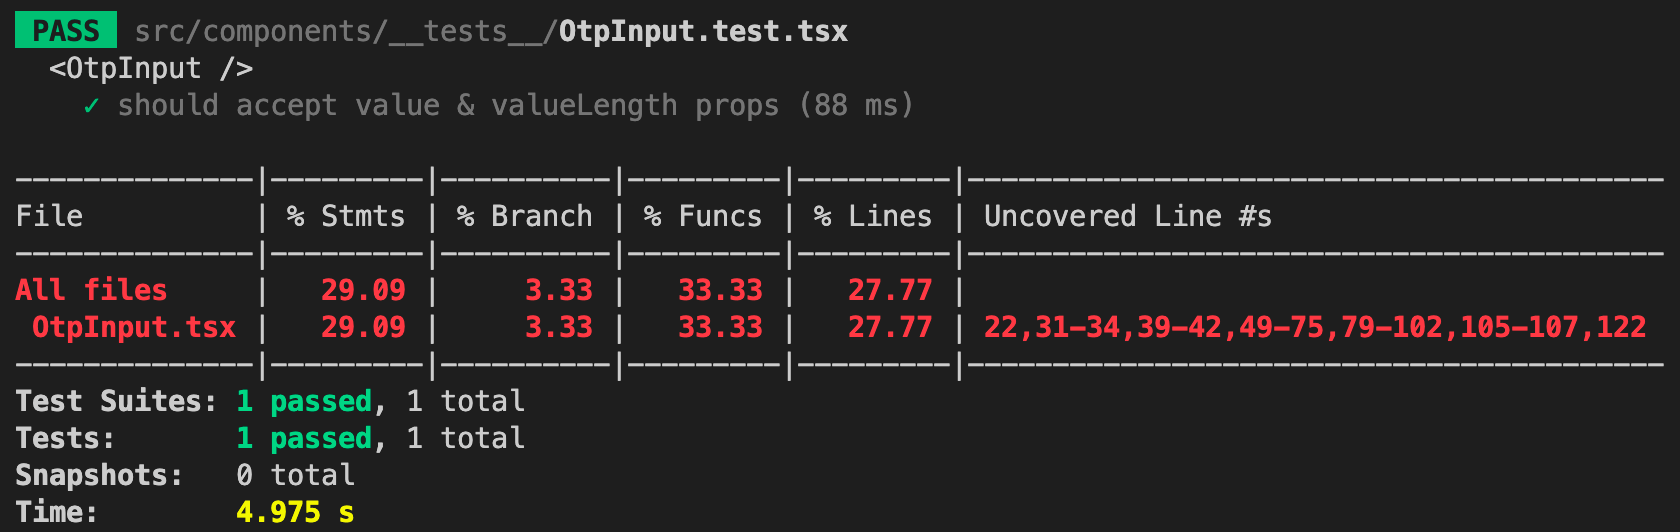
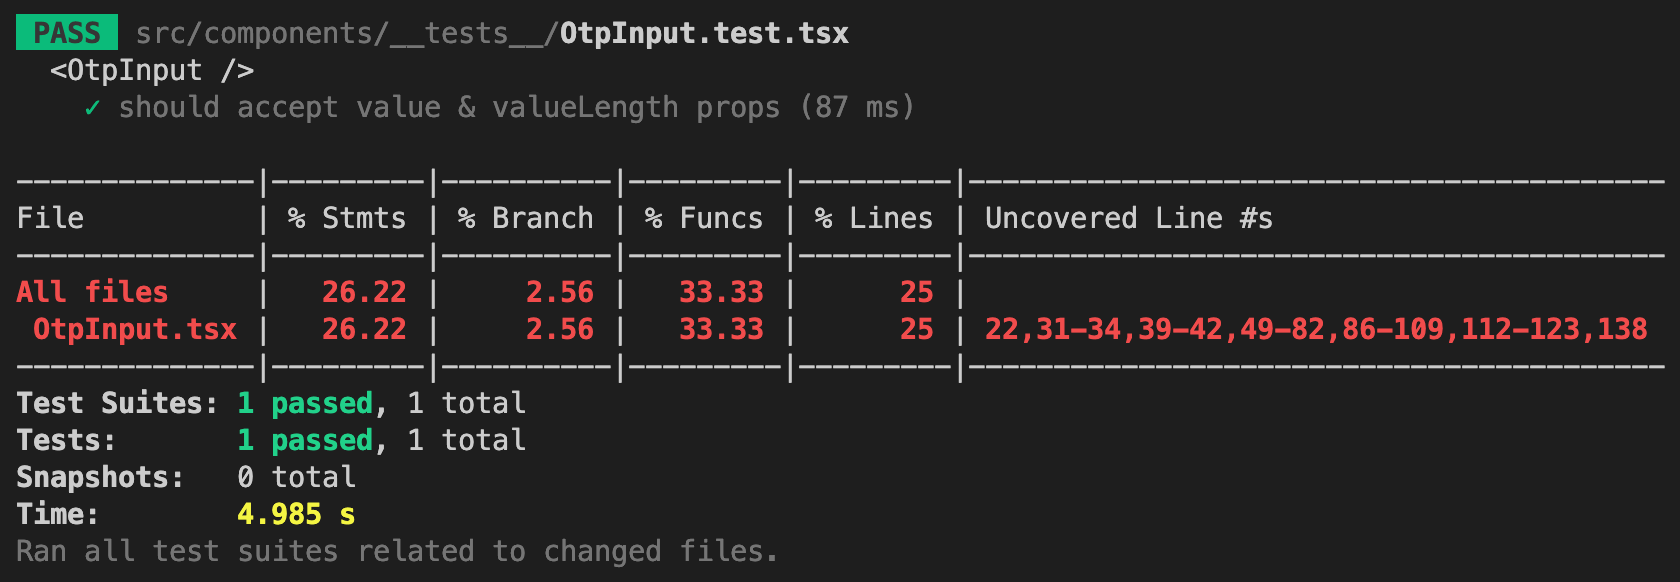
update post

Changed region(s): [[0.0, 0.3008, 0.9905, 0.9925], [0.0, 0.0, 0.5571, 0.2406]]

diff --git a/lib/constants.ts b/lib/constants.ts
@@ -470,7 +470,7 @@ export const TESTIMONIALS: Array<Testimonial> = [
     jobTitle: 'Senior Product Manager',
     companyName: 'PropertyGuru Pte. Ltd.',
     quote:
-      "Having worked with many teams of engineers, very rarely do I encounter engineers like Dom who demonstrate the perfect blend of skills, creativity, and initiative. I'm extremely fortunate to have such engineer on the team. It has not only made my job easier, but we've also ended up with better end products – seamless collaboration, great exchange of ideas, quick and precise execution.",
+      "Having worked with many teams of engineers, very rarely do I encounter engineers like Dom who demonstrate the perfect blend of skills, creativity, and initiative. I'm extremely fortunate to have such engineer on the team. It has not only made my job easier, but we've also ended up with better end products - seamless collaboration, great exchange of ideas, quick and precise execution.",
   },
   {
     name: 'Rangana Chandrasena',

diff --git a/posts/how-to-create-your-own-otp-input-in-react-and-typescript-with-tests-part-2.md b/posts/how-to-create-your-own-otp-input-in-react-and-typescript-with-tests-part-2.md
@@ -360,7 +360,7 @@ Awesome, it still `PASS` and the uncovered lines are getting lesser. Let's keep 
 
 ## Write tests to allow deleting of digits (do not focus on previous element)
 
-So this test case is kind of a duplicate of the above with minor changes to cover line `99` of `OtpInput.tsx`. When the deletion happens but the input element wasn't previously empty, we should not focus on the previous element. Here's the test case for that:
+So this test case is kind of a duplicate of the above with minor changes to cover line `106` of `OtpInput.tsx`. When the deletion happens but the input element wasn't previously empty, we should not focus on the previous element. Here's the test case for that:
 
 ```tsx
 ...
@@ -405,9 +405,53 @@ describe('<OtpInput />', () => {
 
 Since our previous test case already checks the `onChange` logic during deletion, here we just have to check that the previous element was not in focus when we trigger a keydown event with a key of `Backspace` and the `target` during the event had a `value`.
 
-Alright, once you save the changes, and check the terminal, line `99` is removed from the uncovered lines. Sweet!
+Alright, once you save the changes, and check the terminal, line `106` is removed from the uncovered lines. Sweet!
 
 ---
+
+## Write tests to not allow deleting of digits in the middle
+
+This is a test case for a fix we did on Oct. 17, 2022 related to the deleting of digits in the middle after implementing the fix for the focus issue. This test case should be pretty straightforward using what we've learned so far. Let's generate a random 6-digit value, then use that to fill in the OTP input component. Focus on any of the input elements in the middle, let's choose with the third input element. Then, trigger a change event on that element where the event target value is empty which means the digit is deleted. We can verify that it didn't allow deletion of digits by checking if the `onChange` function was not called.
+
+Here's the code for that test case:
+
+```tsx
+...
+
+describe('<OtpInput />', () => {
+  ...
+
+  it('should NOT allow deleting of digits in the middle', () => {
+    const value = faker.datatype
+      .number({ min: 100000, max: 999999 })
+      .toString();
+    const valueLength = value.length;
+    const onChange = jest.fn();
+
+    renderComponent({
+      value,
+      valueLength,
+      onChange,
+    });
+
+    const inputEls = screen.queryAllByRole('textbox');
+    const thirdInputEl = inputEls[2];
+    const target = { value: '' };
+
+    fireEvent.change(thirdInputEl, { target: { value: '' } });
+    fireEvent.keyDown(thirdInputEl, {
+      target,
+      key: 'Backspace',
+    });
+
+    expect(onChange).not.toBeCalled();
+  });
+});
+```
+
+Once you saved the changes, this should pass and cover line `61`!
+
+![Screenshot of React OTP Input incomplete test coverage](/images/posts/how-to-create-your-own-otp-input-in-react-and-typescript-with-tests/test-coverage-incomplete-5.png)
 
 ## Write tests to allow pasting of digits
 
@@ -454,9 +498,9 @@ Okay if my changes are relatively the same as yours, then give yourself pat in t
 
 The test coverage should look like this now:
 
-![Screenshot of React OTP Input incomplete test coverage](/images/posts/how-to-create-your-own-otp-input-in-react-and-typescript-with-tests/test-coverage-incomplete-5.png)
+![Screenshot of React OTP Input incomplete test coverage](/images/posts/how-to-create-your-own-otp-input-in-react-and-typescript-with-tests/test-coverage-incomplete-6.png)
 
-Since we're doing an `if` and `else if` conditions in the `inputOnChange` function in the `OtpInput.tsx`, line `72` will eventually be considered as uncovered lines because the `else` condition is not handled in our test cases yet. It may not show up now until you add the rest of the other test cases. So before that happens, let's just cover that now with the following code:
+Since we're doing an `if` and `else if` conditions in the `inputOnChange` function in the `OtpInput.tsx`, line `79` will eventually be considered as uncovered lines because the `else` condition is not handled in our test cases yet. It may not show up now until you add the rest of the other test cases. So before that happens, let's just cover that now with the following code:
 
 ```tsx
 import { fireEvent, render, screen } from '@testing-library/react';
@@ -494,7 +538,7 @@ Once you save the changes, this test case should pass as well.
 
 ## Write tests for handling arrow keys
 
-And for our last test case, we should cover the keydown events with arrow keys. This was implemented to improve the accessibility of our input boxes. Just a recap, if we press the right or down arrow keys on the keyboard, the focus should be on the next input element. And if we press the left or up arrow keys on the keyboard, the focus should be on the previous input element. These are all handled by the keydown event handler.
+And for our next test case, we should cover the keydown events with arrow keys. This was implemented to improve the accessibility of our input boxes. Just a recap, if we press the right or down arrow keys on the keyboard, the focus should be on the next input element. And if we press the left or up arrow keys on the keyboard, the focus should be on the previous input element. These are all handled by the keydown event handler.
 
 Let's first cover the right and down arrow keys. Here's the test case for that:
 
@@ -569,6 +613,43 @@ describe('<OtpInput />', () => {
 ```
 
 Don't forget to save your changes before you check the terminal:
+
+![Screenshot of React OTP Input incomplete test coverage](/images/posts/how-to-create-your-own-otp-input-in-react-and-typescript-with-tests/test-coverage-incomplete-7.png)
+
+## Write tests to only focus to input if previous input has value
+
+This is the test case for a fix we did on Oct. 17, 2022 related to the focus issue. For this test case, it can be just a straightforward one by having an empty OTP input with a length of 6. Focus on the last input element and verify that the focus is in the first input element instead.
+
+Here's the test case for that:
+
+```tsx
+...
+
+describe('<OtpInput />', () => {
+  ...
+
+  it('should only focus to input if previous input has value', () => {
+    const valueLength = 6;
+
+    renderComponent({
+      valueLength,
+      value: '',
+      onChange: jest.fn(),
+    });
+
+    const inputEls = screen.queryAllByRole('textbox');
+    const lastInputEl = inputEls[valueLength - 1];
+
+    lastInputEl.focus();
+
+    const firstInputEl = inputEls[0];
+
+    expect(firstInputEl).toHaveFocus();
+  });
+});
+```
+
+Once you saved the changes, here's what you should see in your terminal:
 
 ![Screenshot of React OTP Input complete test coverage](/images/posts/how-to-create-your-own-otp-input-in-react-and-typescript-with-tests/test-coverage-complete.png)
 

diff --git a/posts/how-to-create-your-own-otp-input-in-react-and-typescript-with-tests-part-1.md b/posts/how-to-create-your-own-otp-input-in-react-and-typescript-with-tests-part-1.md
@@ -353,7 +353,7 @@ If you're new to TypeScript, you'll notice I used `as HTMLInputElement | null` h
 
 Alright, once you save the changes. Let's try typing digits into the input boxes again:
 
-![GIF of typing in React OTP Input](/images/posts/how-to-create-your-own-otp-input-in-react-and-typescript-with-tests/otp-input-typing.gif)
+![GIF of typing in React OTP Input](/images/posts/how-to-create-your-own-otp-input-in-react-and-typescript-with-tests/otp-input-typing-1.gif)
 
 Wow, that looks smooth and it gives you a nice user experience!
 
@@ -445,7 +445,7 @@ export default function OtpInput({ value, valueLength, onChange }: Props) {
 
 Once you save the changes, you can now delete each digit from the input boxes and it will also focus back to the previous input box if the current input box is already empty. Here's how it is in action:
 
-![GIF of deleting in React OTP Input](/images/posts/how-to-create-your-own-otp-input-in-react-and-typescript-with-tests/otp-input-deleting.gif)
+![GIF of deleting in React OTP Input](/images/posts/how-to-create-your-own-otp-input-in-react-and-typescript-with-tests/otp-input-deleting-1.gif)
 
 Are we done? Nope. There's still a couple more things we need to do to make this OTP input better. Let's continue ~
 
@@ -636,4 +636,86 @@ Save those changes and test it out! Here's a demo of all the features we have im
 
 ![GIF of React OTP Input demo](/images/posts/how-to-create-your-own-otp-input-in-react-and-typescript-with-tests/otp-input-demo.gif)
 
-And that's were done with the implementation part! Please proceed to the [next part](/posts/how-to-create-your-own-otp-input-in-react-and-typescript-with-tests-part-2) to learn how to write tests for the OTP input component we have just built.
+---
+
+## Fix focus and deletion issues (Oct. 17, 2022)
+
+A few months later after I have posted the video version of this blog on [YouTube](https://youtu.be/Qpo4gUfv2Fs), I received a comment that there was an issue with the focus. Explaining it in words is kind of difficult so I created a [GIF](https://en.wikipedia.org/wiki/GIF) instead, here's the issue:
+
+![GIF of typing in React OTP Input](/images/posts/how-to-create-your-own-otp-input-in-react-and-typescript-with-tests/otp-input-typing-2.gif)
+
+It doesn't look right when your focus is on the last input element but it starts typing out the digits on the first or other input elements. We need to fix this. I thought it would make sense to just focus from the first input element or from where the last digit was. I don't think most users will start writing the digits in random order. So for the fix, we can add a logic in the existing focus event listener of the input elements. Inside of it, we will first check if the previous input element has value. If there's value, then the focus remains on that input. If there's _NO_ value, then we focus on the previous input element and that will fire or trigger the same focus event listener again which will recursively check the condition.
+
+To implement this recursive condition check, let's update `src/components/OtpInput.tsx` with the following code:
+
+```tsx
+...
+
+export default function OtpInput({ value, valueLength, onChange }: Props) {
+  ...
+  const inputOnFocus = (e: React.FocusEvent<HTMLInputElement>) => {
+    const { target } = e;
+
+    // keep focusing back until previous input
+    // element has value
+    const prevInputEl =
+      target.previousElementSibling as HTMLInputElement | null;
+
+    if (prevInputEl && prevInputEl.value === '') {
+      return prevInputEl.focus();
+    }
+
+    target.setSelectionRange(0, target.value.length);
+  };
+  ...
+}
+```
+
+Once you saved the changes, it will fix the focus issue:
+
+![GIF of typing in React OTP Input](/images/posts/how-to-create-your-own-otp-input-in-react-and-typescript-with-tests/otp-input-typing-3.gif)
+
+But... once this new logic has been implemented, it will introduce another issue. It is related with deleting digits in the middle. Here's the issue:
+
+![GIF of deleting in React OTP Input](/images/posts/how-to-create-your-own-otp-input-in-react-and-typescript-with-tests/otp-input-deleting-2.gif)
+
+So in the GIF, you can see if we start deleting digits in the middle. It leaves some digits on the right. When you try to focus on the digit on the right, you won't be able to because of the new logic we just imlemented. To fix this and make things simple, we simply won't allow deleting of digits in the middle by checking if the next input element has value.
+
+Here's the logic we need to add in ``src/components/OtpInput.tsx`:
+
+```tsx
+...
+
+export default function OtpInput({ value, valueLength, onChange }: Props) {
+  ...
+
+  const inputOnChange = (
+    e: React.ChangeEvent<HTMLInputElement>,
+    idx: number
+  ) => {
+    ...
+
+    if (!isTargetValueDigit && targetValue !== '') {
+      return;
+    }
+
+    const nextInputEl = target.nextElementSibling as HTMLInputElement | null;
+
+    // only delete digit if next input element has no value
+    if (!isTargetValueDigit && nextInputEl && nextInputEl.value !== '') {
+      return;
+    }
+
+    targetValue = isTargetValueDigit ? targetValue : ' ';
+
+    ...
+  };
+  ...
+}
+```
+
+![GIF of deleting in React OTP Input](/images/posts/how-to-create-your-own-otp-input-in-react-and-typescript-with-tests/otp-input-deleting-3.gif)
+
+In the GIF, you can see that we are not able to delete digits in the middle, but we can still replace it with another digit.
+
+And that's it! We're done with the implementation part. Please proceed to the [next part](/posts/how-to-create-your-own-otp-input-in-react-and-typescript-with-tests-part-2) to learn how to write tests for the OTP input component we have just built.
